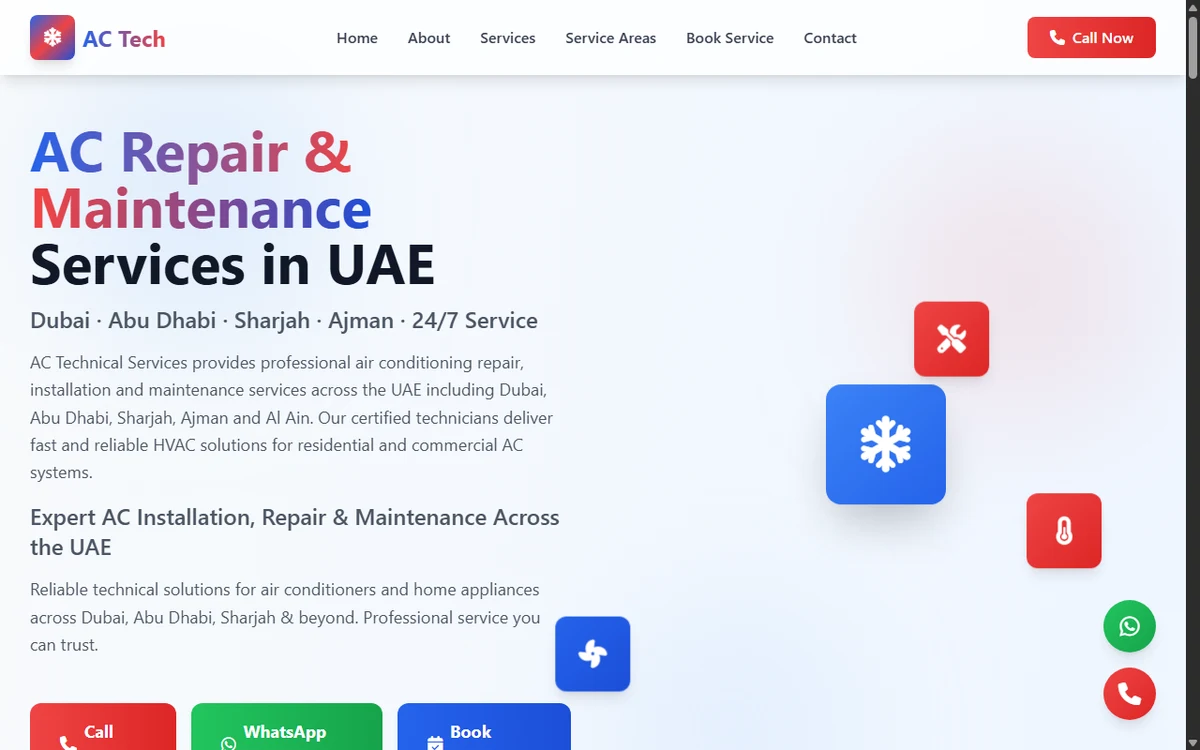
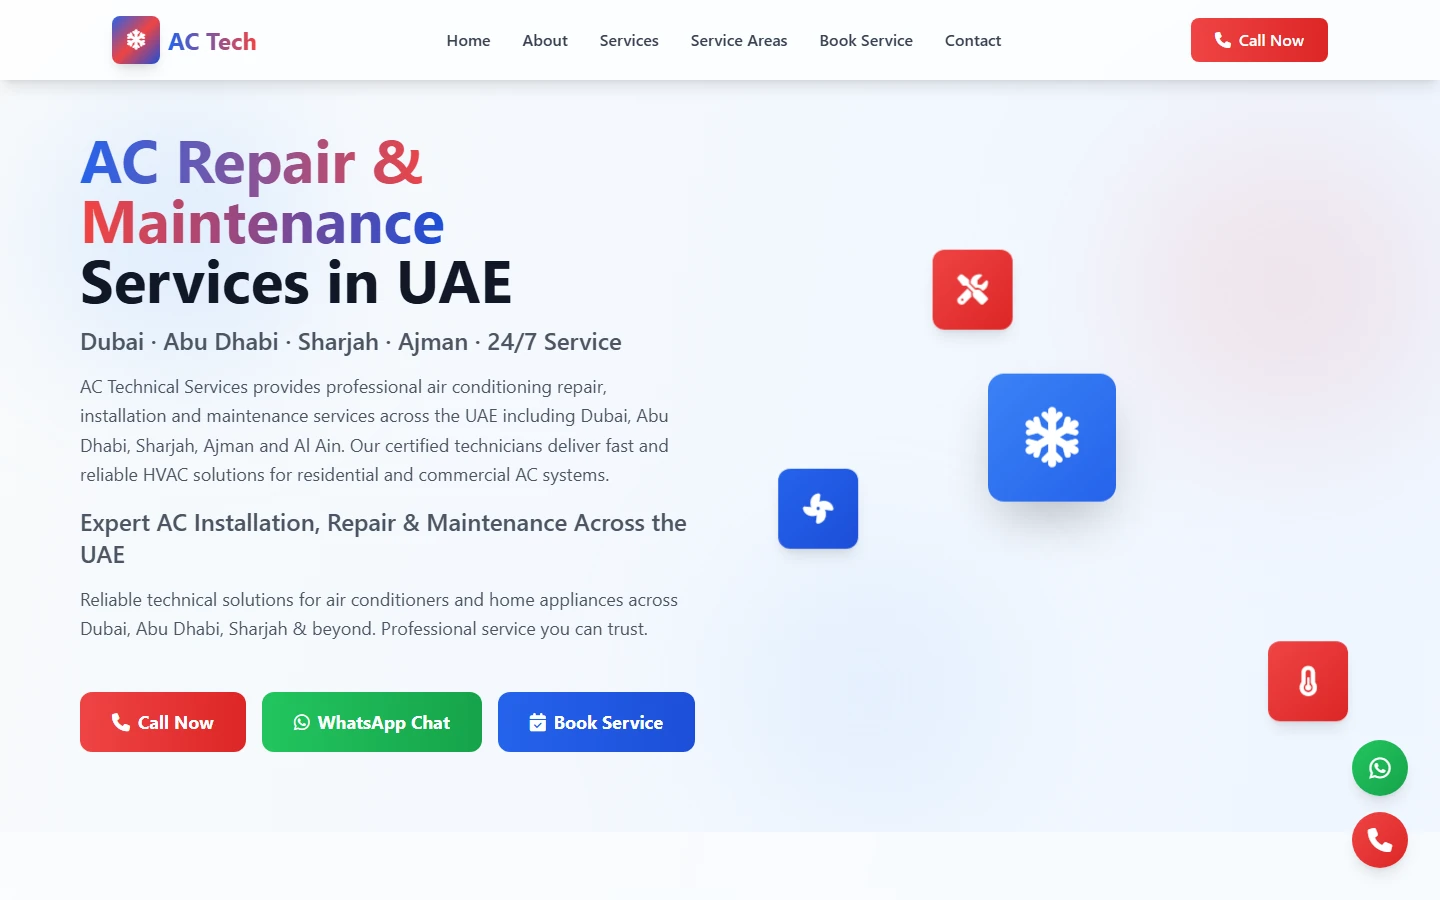
fix(visual): hero spacing, line-height, PORTFOLIO text visibility, and no-scrollbar project screenshots

diff --git a/components/Hero.module.css b/components/Hero.module.css
@@ -4,14 +4,14 @@
 
 .heroSection {
   position: relative;
-  min-height: clamp(560px, 80vh, 740px);
+  min-height: clamp(560px, 80vh, 760px);
   width: 100%;
   display: flex;
   flex-direction: column;
   justify-content: flex-end;
   overflow: hidden;
   background-color: var(--bg);
-  padding: var(--space-4) 0 0 0;
+  padding: 0 0 clamp(60px, 6vw, 80px) 0;
 }
 
 /* Ambient Radial Red Light & Interactive Spotlight */
@@ -81,7 +81,7 @@
 /* Background Giant Lettering "PORTFOLIO" */
 .headlineBackdrop {
   position: absolute;
-  top: 2%;
+  top: 0;
   left: 0;
   width: 100%;
   display: flex;
@@ -98,9 +98,9 @@
 
 .giantPortfolioText {
   font-family: var(--font-display);
-  font-size: clamp(4.5rem, 16vw, 16.5rem);
+  font-size: clamp(4.1rem, 14.5vw, 14.5rem);
   line-height: 0.82;
-  letter-spacing: -0.02em;
+  letter-spacing: 0.01em;
   text-transform: uppercase;
   text-align: center;
   white-space: nowrap;
@@ -134,10 +134,10 @@
 /* Center Portrait Layer — shifted slightly right & lower to uncover PORTFOLIO lettering */
 .portraitWrapper {
   position: absolute;
-  top: 4%;
-  left: 54%;
-  transform: translateX(-46%);
-  width: clamp(290px, 32vw, 470px);
+  top: 5%;
+  left: 56.5%;
+  transform: translateX(-43.5%);
+  width: clamp(270px, 30vw, 440px);
   height: 96%;
   max-height: 640px;
   display: flex;
@@ -208,7 +208,7 @@
 .heroName {
   font-family: var(--font-display);
   font-size: clamp(3rem, 5.2vw, 5.4rem);
-  line-height: 0.88;
+  line-height: 0.98;
   letter-spacing: 0.02em;
   color: var(--text-pure);
   text-transform: uppercase;
@@ -421,11 +421,11 @@
 @keyframes portraitEntrance {
   0% {
     opacity: 0;
-    transform: translateX(-46%) translateY(28px) scale(0.98);
+    transform: translateX(-43.5%) translateY(28px) scale(0.98);
   }
   100% {
     opacity: 1;
-    transform: translateX(-46%) translateY(0) scale(1);
+    transform: translateX(-43.5%) translateY(0) scale(1);
   }
 }
 

diff --git a/components/SelectedProjects.module.css b/components/SelectedProjects.module.css
@@ -6,7 +6,7 @@
   position: relative;
   width: 100%;
   background-color: var(--bg);
-  padding: var(--space-8) 0 var(--space-16) 0;
+  padding: clamp(72px, 6.5vw, 96px) 0 var(--space-16) 0;
   border-top: 1px solid var(--line);
   overflow: hidden;
 }
